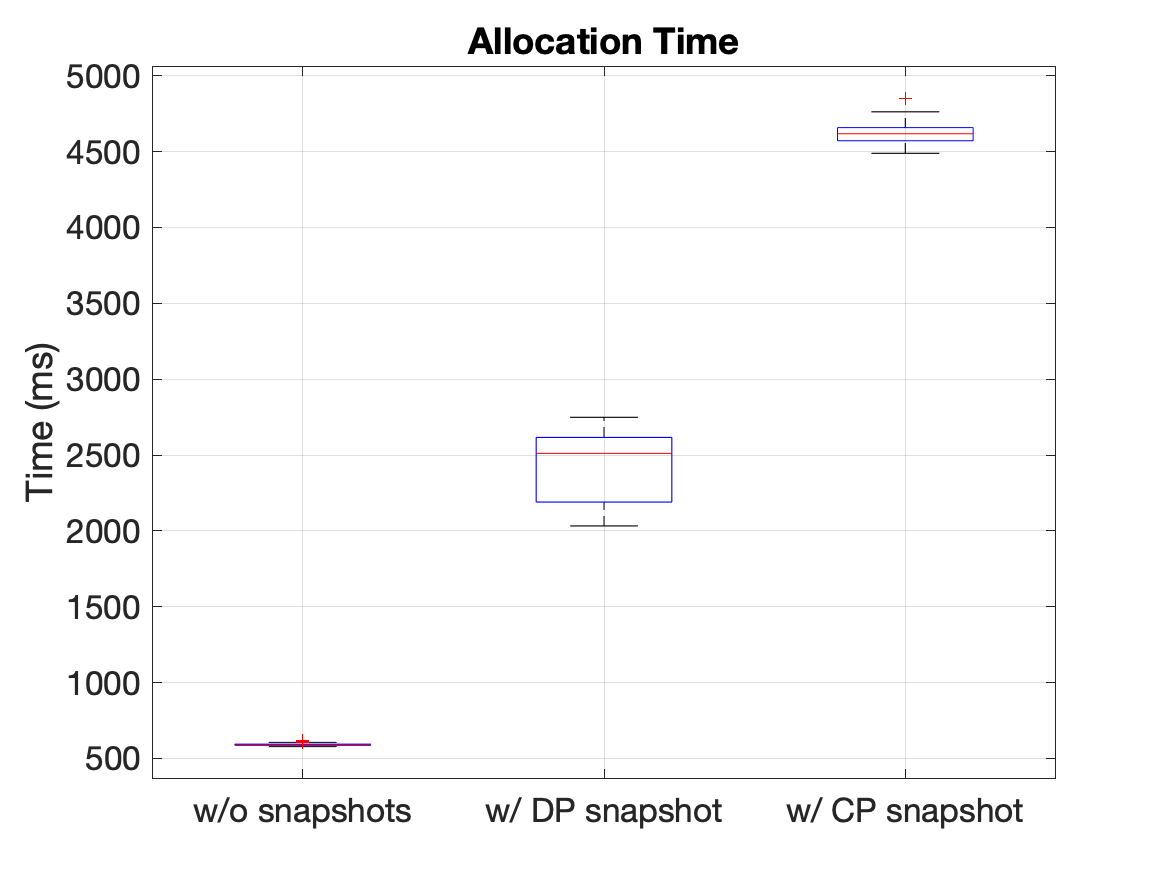
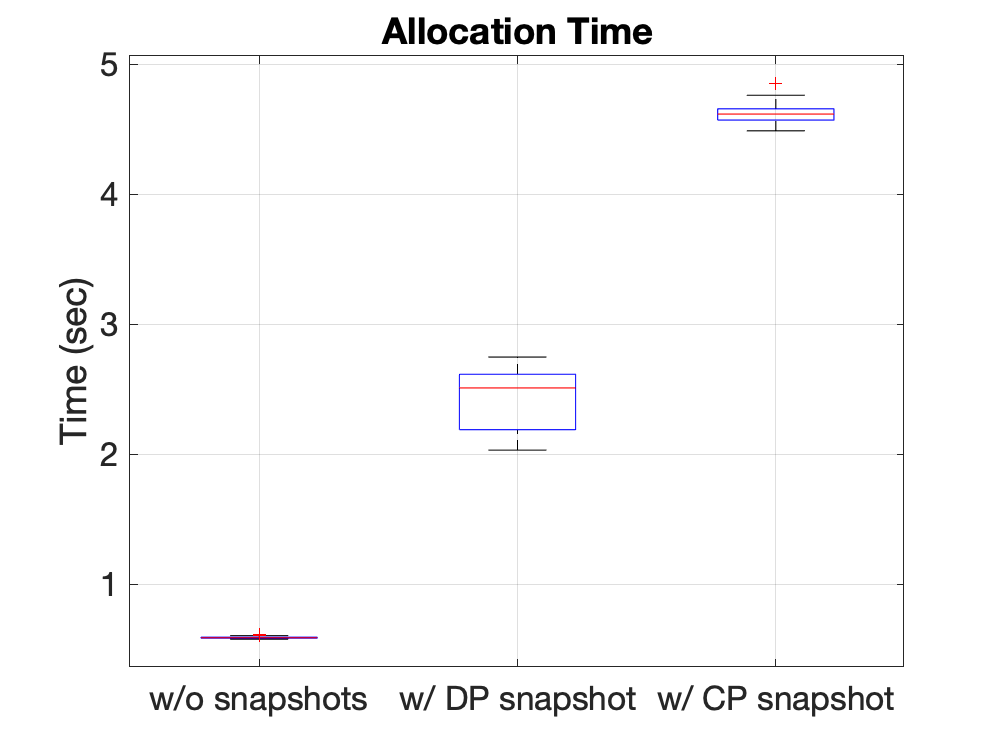
custom experiment to compare utils of cache/random.

diff --git a/malloc/simalloc.py b/malloc/simalloc.py
@@ -24,6 +24,7 @@ def simAllocation(expId, appCfg, allocator, sequence, departures=False, departur
     utilByIter = np.zeros(len(sequence))
     failed = set()
     allocated = []
+    allocated_appnames = []
     if debug:
         print("Attempting allocation for sequence:", sequence)
     i = 0
@@ -90,6 +91,7 @@ def simAllocation(expId, appCfg, allocator, sequence, departures=False, departur
             enumerationSizes[iter] = activeFunc.getEnumerationSize()
             utilByIter[iter] = utilization
             allocated.append(fid)
+            allocated_appnames.append(appname)
             iter += 1
         else:
             failed.add(appname)
@@ -106,7 +108,9 @@ def simAllocation(expId, appCfg, allocator, sequence, departures=False, departur
         'costs'         : costs,
         'utilization'   : utilByIter,
         'datalen'       : iter,
-        'allocmatrix'   : allocator.allocationMatrix
+        'allocmatrix'   : allocator.allocationMatrix,
+        'allocated'     : allocated,
+        'appnames'      : allocated_appnames
     }
     if iter == 0:
         return (0, 0, 0, 0)
@@ -256,37 +260,61 @@ def runAnalysis(appCfg, metric, optimize, minimize, numRepeats, appname=None, w=
 # ANALYSIS: only inelastic app
 # ANALYSIS: fragmentation (arrival/departure)
 
-param_fit = [(True, True), (True, False)]
-param_metric = [Allocator.METRIC_COST, Allocator.METRIC_UTILITY, Allocator.METRIC_UTILIZATION]
+custom = True
 
-workloads = appCfg.keys()
-workloads.append('random')
+if custom:
+    print("[Custom Experiment]")
+    expId = 0
+    
+    sequence = generateSequence(appCfg, appname='cache')
+    allocator = Allocator(metric=Allocator.METRIC_COST, optimize=True, minimize=True)
+    (sumCost, utilization, utility, avgTime, iter, numDepartures, stats) = simAllocation(expId, appCfg, allocator, sequence)
+    print("Utilization (cache)", utilization)
+    print(stats['allocated'])
+    print(stats['appnames'])
+    print(stats['allocmatrix'])
 
-# Strawman: get first-fit for each workload.
-for w in workloads:
-    type = 'fixed' if w != 'random' else w
-    appname = w
-    optimize = False
-    minimize = False
-    metric = Allocator.METRIC_SAT
-    paramStr = getParamString(optimize, minimize, metric, appname=appname, type=type)
-    print("running analysis with params:", paramStr)
-    results = runAnalysis(appCfg, metric, optimize, minimize, numRepeats, appname=appname, w=type, debug=True)
-    writeResults(results, "allocation_%s.csv" % paramStr)
+    print("")
 
-# Combinations: (first-fit, best-fit, worst-fit) x (relocations, utility, utilization).
-for w in workloads:
-    type = 'fixed' if w != 'random' else w
-    appname = w
-    for p1 in param_metric:
-        metric = p1
-        for p2 in param_fit:
-            optimize = p2[0]
-            minimize = p2[1]
-            paramStr = getParamString(optimize, minimize, metric, appname=appname, type=type)
-            print("running analysis with params:", paramStr)
-            results = runAnalysis(appCfg, metric, optimize, minimize, numRepeats, appname=appname, w=type, debug=True)
-            writeResults(results, "allocation_%s.csv" % paramStr)
+    sequence = generateSequence(appCfg, type='random')
+    allocator = Allocator(metric=Allocator.METRIC_COST, optimize=True, minimize=True)
+    (sumCost, utilization, utility, avgTime, iter, numDepartures, stats) = simAllocation(expId, appCfg, allocator, sequence)
+    print("Utilization (random)", utilization)
+    print(stats['allocated'])
+    print(stats['appnames'])
+    print(stats['allocmatrix'])
+else:
+    param_fit = [(True, True), (True, False)]
+    param_metric = [Allocator.METRIC_COST, Allocator.METRIC_UTILITY, Allocator.METRIC_UTILIZATION]
+
+    workloads = appCfg.keys()
+    workloads.append('random')
+
+    # Strawman: get first-fit for each workload.
+    for w in workloads:
+        type = 'fixed' if w != 'random' else w
+        appname = w
+        optimize = False
+        minimize = False
+        metric = Allocator.METRIC_SAT
+        paramStr = getParamString(optimize, minimize, metric, appname=appname, type=type)
+        print("running analysis with params:", paramStr)
+        results = runAnalysis(appCfg, metric, optimize, minimize, numRepeats, appname=appname, w=type, debug=True)
+        writeResults(results, "allocation_%s.csv" % paramStr)
+
+    # Combinations: (first-fit, best-fit, worst-fit) x (relocations, utility, utilization).
+    for w in workloads:
+        type = 'fixed' if w != 'random' else w
+        appname = w
+        for p1 in param_metric:
+            metric = p1
+            for p2 in param_fit:
+                optimize = p2[0]
+                minimize = p2[1]
+                paramStr = getParamString(optimize, minimize, metric, appname=appname, type=type)
+                print("running analysis with params:", paramStr)
+                results = runAnalysis(appCfg, metric, optimize, minimize, numRepeats, appname=appname, w=type, debug=True)
+                writeResults(results, "allocation_%s.csv" % paramStr)
 
 """if analysisType == "exclusive":
     numRepeats = int(sys.argv[2]) if len(sys.argv) > 2 else 1

diff --git a/malloc/allocator_paper_evals.m b/malloc/allocator_paper_evals.m
@@ -1,0 +1,108 @@
+clear;
+clc;
+
+NUM_DATA_POINTS = 100;
+
+param_fit = ["ff", "bf"];
+param_metric = "relocations";
+param_workload = ["cache", "cheetahlb", "cms", "random"];
+
+num_fits = length(param_fit);
+num_workloads = length(param_workload);
+
+data_cost = zeros(2, num_workloads);
+data_utilization = zeros(2, num_workloads);
+data_numapps = zeros(2, num_workloads);
+data_time = zeros(2, num_workloads, NUM_DATA_POINTS);
+
+for i = 1:num_workloads
+    for j = 1:num_fits
+        metric = param_metric;
+        if param_fit(j) == "ff"
+            metric = "sat";
+        end
+        datafile = sprintf("allocation_%s_%s_%s.csv", param_workload(i), param_fit(j), metric);
+        if isfile(datafile)
+    
+            data = csvread(datafile);
+    
+            cost = data( : , 1);
+            utilization = data( : , 2);
+            utility = data( : , 3);
+            allocTime = data( : , 4);
+    
+            numAllocations = data( : , 5);
+            numDepartures = data( : , 6);
+            
+            data_cost(j, i) = median(cost(:));
+            data_utilization(j, i) = median(utilization(:));
+            data_numapps(j, i) = median(numAllocations(:));
+            data_time(j, i, :) = allocTime(:) * 1E6;
+        end
+    end
+end
+
+figure;
+set(gcf,'position',[300, 300, 1100, 400]);
+subplot(1, 2, 1);
+boxplot(reshape(data_time(1, :, :), [num_workloads, NUM_DATA_POINTS])');
+title("Strawman");
+ylabel("Allocation Time (us)");
+ylim([300 1200]);
+xticklabels(param_workload);
+set(gca, 'FontSize', 16);
+grid on;
+subplot(1, 2, 2);
+boxplot(reshape(data_time(2, :, :), [num_workloads, NUM_DATA_POINTS])');
+title("Cost-Based");
+ylabel("Allocation Time (us)");
+ylim([300 1200]);
+xticklabels(param_workload);
+set(gca, 'FontSize', 16);
+grid on;
+saveas(gcf, 'paper_allocation_time.png');
+
+% cost, util, #apps.
+figure;
+set(gcf,'position',[300, 300, 1100, 400]);
+subplot(1, 2, 1);
+yyaxis left;
+plot(data_cost(1, : ), '--square', 'MarkerSize', 10);
+hold on;
+plot(data_cost(2, : ), '-x', 'MarkerSize', 10);
+hold on;
+ylabel('# Reallocations');
+ylim([0, max(data_cost(1, : ) + 10)]);
+yyaxis right;
+plot(data_numapps(1, : ), '--square', 'MarkerSize', 10);
+hold on;
+plot(data_numapps(2, : ), '-x', 'MarkerSize', 10);
+ylabel('# Apps');
+ylim([0, max(data_numapps(1, : ) + 5)]);
+xticks(1:num_workloads);
+xticklabels(param_workload);
+lgd = legend('Strawman', 'Cost-Based');
+lgd.Location = 'northwest';
+set(gca, 'FontSize', 16);
+grid on;
+subplot(1, 2, 2);
+yyaxis left;
+plot(data_utilization(1, : ), '--square', 'MarkerSize', 10);
+hold on;
+plot(data_utilization(2, : ), '-x', 'MarkerSize', 10);
+hold on;
+ylabel('Utilization');
+ylim([0 1]);
+yyaxis right;
+plot(data_numapps(1, : ), '--square', 'MarkerSize', 10);
+hold on;
+plot(data_numapps(2, : ), '-x', 'MarkerSize', 10);
+ylabel('# Apps');
+ylim([0, max(data_numapps(1, : ) + 5)]);
+xticks(1:num_workloads);
+xticklabels(param_workload);
+lgd = legend('Strawman', 'Cost-Based');
+lgd.Location = 'northwest';
+set(gca, 'FontSize', 16);
+grid on;
+saveas(gcf, 'paper_allocation_cost_util_numapps.png');

diff --git a/netproxy/pktgen/analysis.m b/netproxy/pktgen/analysis.m
@@ -11,9 +11,10 @@ data( : , 2) = data_snapshot_dp( : , 1) / 1E6;
 data( : , 3) = data_snapshot_cp( : , 1) / 1E6;
 
 figure;
-boxplot(data);
+set(gcf,'position',[300, 300, 480, 360]);
+boxplot(data / 1E3);
 title('Allocation Time');
-ylabel('Time (ms)');
+ylabel('Time (sec)');
 % set(gca, 'YScale', 'log');
 set(gca, 'FontSize', 16);
 xticklabels({"w/o snapshots", 'w/ DP snapshot', 'w/ CP snapshot'});

diff --git a/netproxy/activep4.h b/netproxy/activep4.h
@@ -325,4 +325,8 @@ static inline void construct_dummy_program(activep4_t* program, pnemonic_opcode_
     add_instruction(program, instr_set, "EOF"); 
 }
 
+static inline void construct_cache_read_program(activep4_t* program, pnemonic_opcode_t* instr_set) {}
+
+static inline void construct_cache_write_program(activep4_t* program, pnemonic_opcode_t* instr_set) {}
+
 #endif
